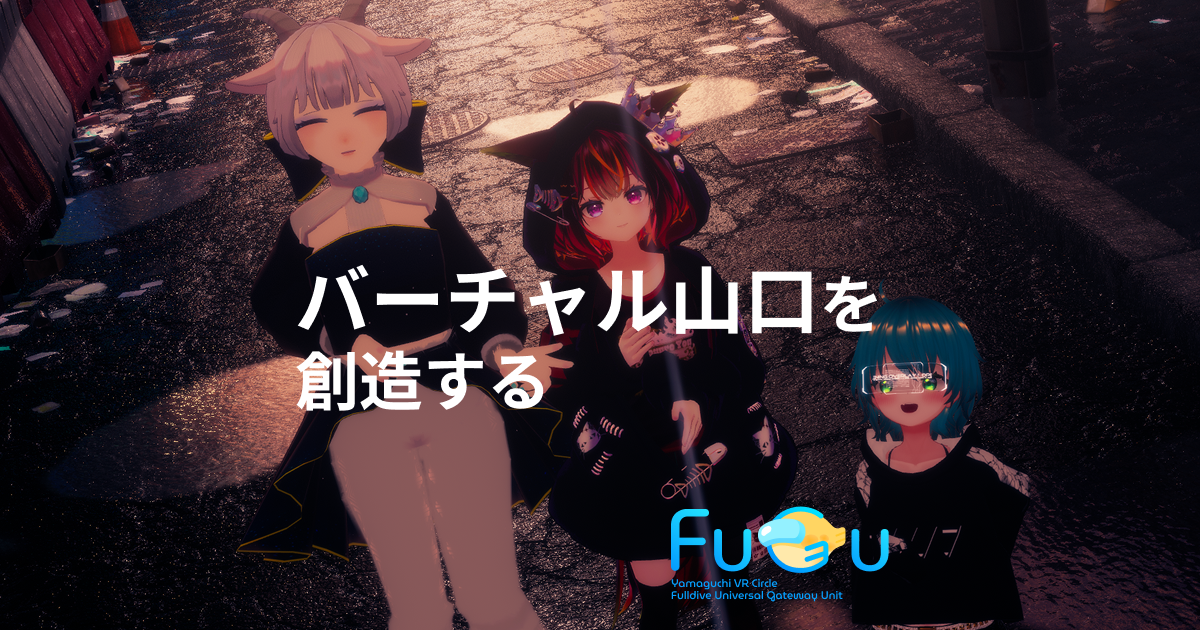
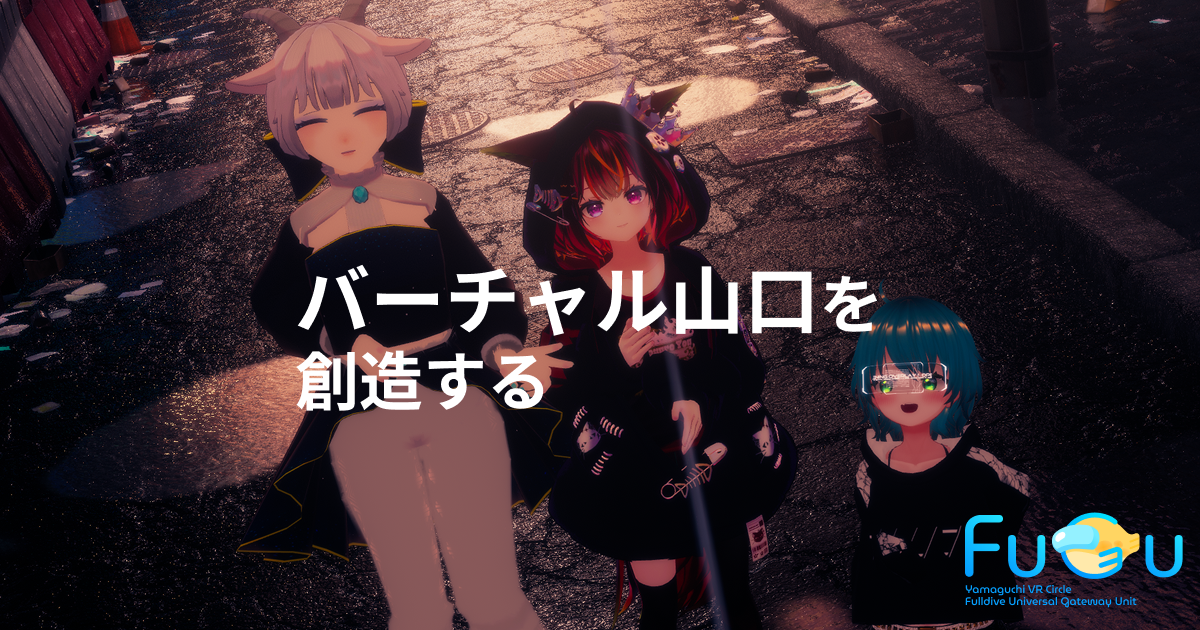
OGP画像の差し替えとローディングのコメントアウト

Changed region(s): [[0.555, 0.7841, 0.74, 0.9651], [0.8017, 0.8143, 0.9867, 0.9651]]

diff --git a/src/components/sections/Achievements/Achievements.tsx b/src/components/sections/Achievements/Achievements.tsx
@@ -30,9 +30,9 @@ export const Achievements = () => {
       <SectionTitle>活動実績</SectionTitle>
 
       <div className="achievements-container">
-        <div className="spinner-wrapper">
+        {/* <div className="spinner-wrapper">
           <div className="spinner"></div>
-        </div>
+        </div> */}
 
         {/* Twitter Timeline */}
         <div className="achievements-timeline">

diff --git a/src/components/sections/Achievements/achievements.css b/src/components/sections/Achievements/achievements.css
@@ -26,7 +26,8 @@
 
 .achievements-timeline a {
   padding: 10px 20px;
-  margin: 130px auto 0 auto;
+  /* margin: 130px auto 0 auto; */
+  margin: 30px auto 0 auto;
   display: flex;
   align-items: center;
   justify-content: center;
@@ -52,7 +53,6 @@
   display: flex;
   justify-content: center;
   align-items: center;
-  /* background-color: red; */
 }
 
 .spinner {
